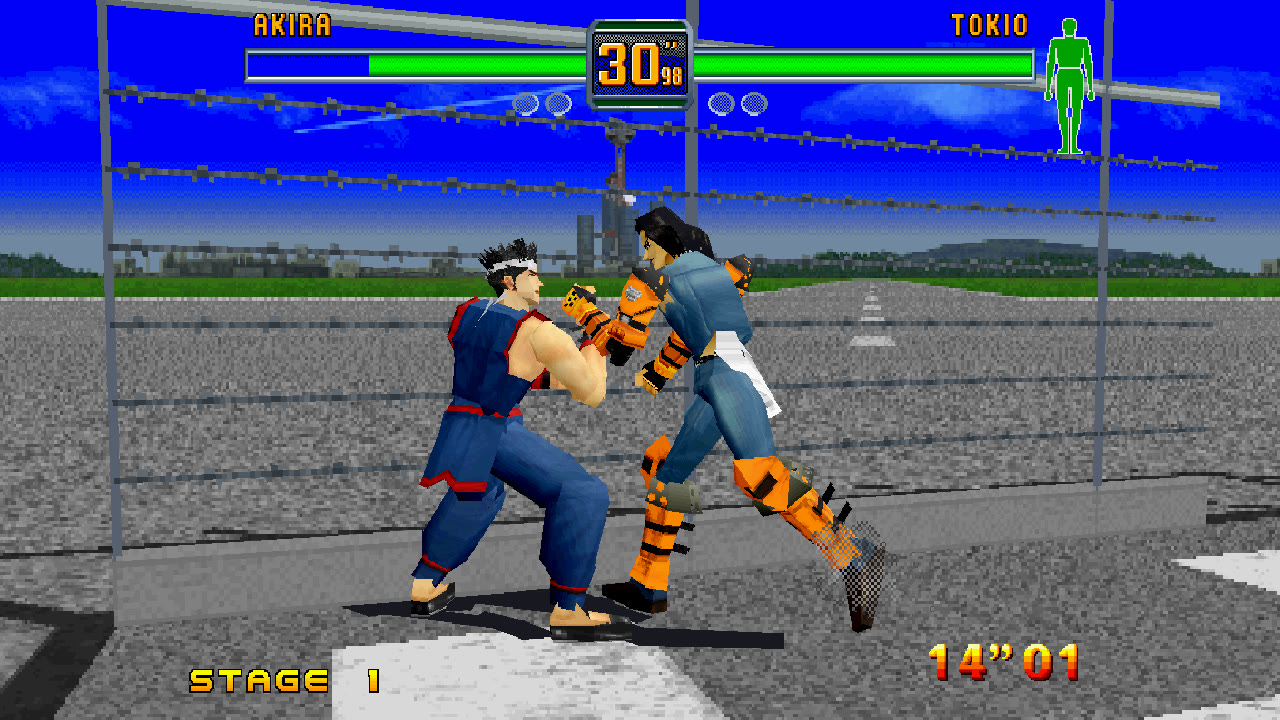
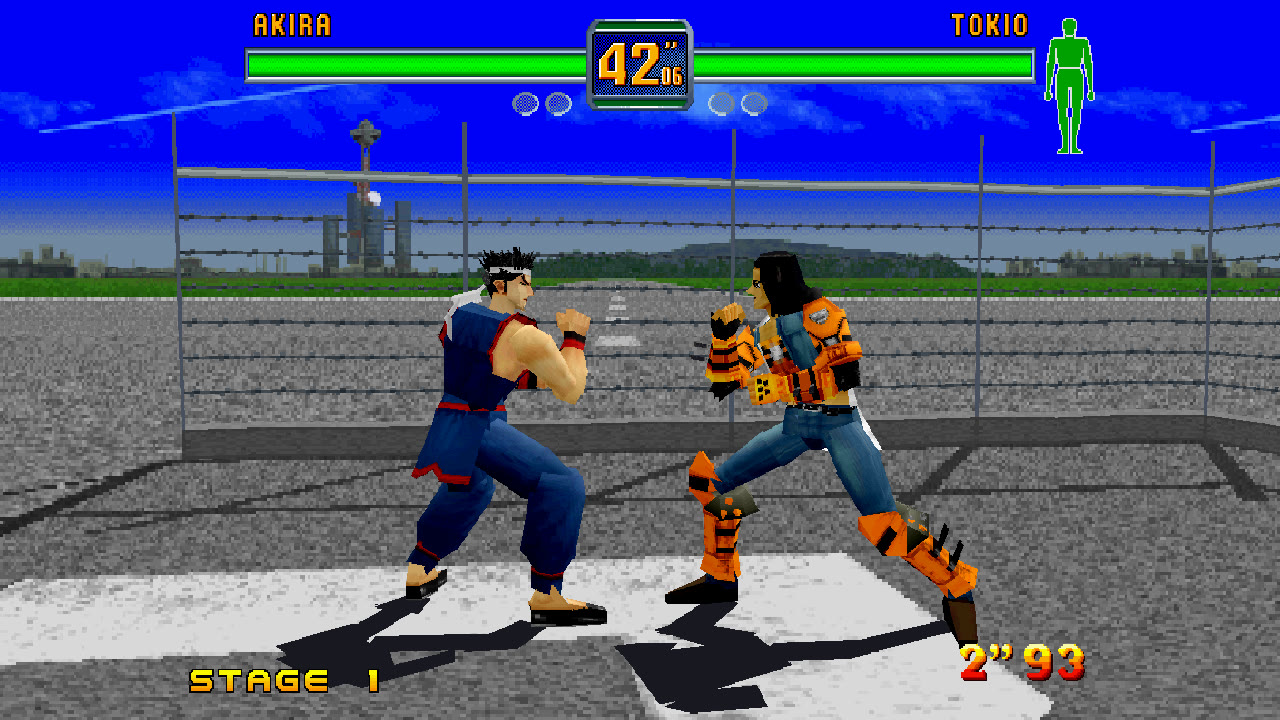
Sound effects in fights; widescreen: the stages' fences reach the picture's edges
Toolkit at satrecomp c5cb660. A fight's sound effects stopped after "Round 1,
Fight!", a hiss in their place, while the CD music went on: the game reads
its sound program and samples through the file library's Fread and waits
there with its interrupts running, and the toolkit's replacement read at
once. Fread is the game's own again (reading through the CD drive); loading
before a fight takes about two seconds longer. The new code it runs is
recorded: 100% translated again.

Widescreen: the four routines that list a stage's panels take one only
within a limit of the picture's middle; the limits are widened
(shared::WidenAm2PanelLimits). The gauges stay in the middle: the title's
text is on the same screen rows. The README's widescreen picture is taken
again with the fence reaching both edges.

make check (arcade movie 6,000 frames, no input 9,000) passes.

Claude-Session: https://claude.ai/code/session_0194hRTFNQ8ggjwo1nMtcsWZ

diff --git a/satrecomp/runtime/shared_lifts.cpp b/satrecomp/runtime/shared_lifts.cpp
@@ -2,10 +2,12 @@
 // Copyright (C) 2026 Tommy McLeroy. Part of satrecomp: https://github.com/tmcleroy/satrecomp
 // Routines several games carry byte for byte (shared_lifts.h). First written for Fighting Vipers.
 #include "shared_lifts.h"
+#include "game.h"
 #include "music.h"
 #include "state.h"
 
 #include <algorithm>
+#include <cmath>
 #include <cstdio>
 #include <cstdlib>
 #include <cstring>
@@ -147,43 +149,6 @@ bool GfsClose(Guest &g) {
     g.Return(300);
     return true;
 }
-
-// The standard file library's Fread. Games read the disc's directory with it at start-up, and movie players
-// read their movie through it a few sectors at a time as it plays.
-//
-// Fread(file, sectors, buffer, size): reads up to that many sectors from where the file's read position is,
-// and moves the position on. Returns the number of bytes read.
-// interface: r4 -> the library's open file (start sector at +0x10, sectors at +0x20, read position in
-// sectors at +0x48), r5 = sectors, r6 = buffer, r7 = its size in bytes
-bool GfsFread(Guest &g) {
-    const uint32_t file = g.R(4);
-    if (file == 0) {
-        return false;
-    }
-    const uint32_t first = g.Read32(file + 0x10), total = g.Read32(file + 0x20);
-    uint32_t position = g.Read32(file + 0x48);
-    if (position == 0xFFFFFFFF) {
-        position = 0; // (a file nothing has been read from yet)
-    }
-    if (g.Read32(file + 0x1C) != 2048 || position > total) {
-        return false;
-    }
-    const uint32_t count = std::min({g.R(5), total - position, g.R(7) / 2048});
-    std::vector<uint8_t> data(static_cast<size_t>(count) * 2048);
-    for (uint32_t i = 0; i < count; i++) {
-        if (!satrecomp::ReadDiscSector(first + position + i, data.data() + static_cast<size_t>(i) * 2048)) {
-            return false;
-        }
-    }
-    // (whole sectors, also of the file's last one, as the library gives them)
-    const size_t bytes = data.size();
-    g.CopyIn(g.R(6), data.data(), bytes);
-    g.Write32(file + 0x48, position + count);
-    g.R(0) = static_cast<uint32_t>(bytes);
-    g.Return(2000);
-    return true;
-}
-
 
 // --- CD music ---
 //
@@ -486,7 +451,6 @@ const Routine kGfsOpen = {"GFS Open", 0x40, 0xD6F3BEFA9FD2D85Cull, GfsOpen};
 const Routine kGfsStart = {"GFS Start", 0x40, 0x8F991EFB4E2B8472ull, GfsStart};
 const Routine kGfsPoll = {"GFS Poll", 0x40, 0x8F0DC6C95F511448ull, GfsPoll};
 const Routine kGfsClose = {"GFS Close", 0x40, 0x7B59151D7BEC30D8ull, GfsClose};
-const Routine kGfsFread = {"GFS Fread", 0x6E, 0x9D2028C1C665A09Bull, GfsFread};
 const Routine kCdPlay = {"CdPlay", 0x44, 0xCB5EB1EAEFB73570ull, CdPlay};
 const Routine kCdSeek = {"CdSeek", 0x26, 0x4797762B59FD886Full, CdSeek};
 const Routine kCdGetCurStat = {"GetCurStat", 0x44, 0x84988AAF02EEAA2Aull, CdGetCurStat};
@@ -522,6 +486,32 @@ void State(Archive &ar) {
     ar.Pod(g_smpc.requests);
     if (!ar.Saving()) {
         g_smpc.pending = false;
+    }
+}
+
+void WidenAm2PanelLimits(std::initializer_list<uint32_t> loads) {
+    constexpr uint16_t kLimit = 224, kHalfWidth = 176;
+    constexpr uint16_t kNegR1R2 = 0x621B;
+    const float wider = PictureAspect() / (4.0f / 3.0f) - 1.0f;
+    // In a wider picture: out by as much as the picture is wider, and by another half 4:3 picture, since a
+    // panel at the side is listed only when its far corners are inside too (Megamix's fences are wide; at
+    // 16:9 one at the right edge needed a limit of nearly 300, and limits up to 2000 showed nothing more)
+    const uint16_t limit = wider > 0.0f
+        ? static_cast<uint16_t>(kLimit + std::lround(wider * kHalfWidth) + kHalfWidth)
+        : kLimit;
+    for (const uint32_t at : loads) {
+        const uint16_t op = Ram16(at);
+        if ((op & 0xFF00) != 0x9100) { // mov.w @(disp,PC),r1
+            continue;
+        }
+        if (Ram16(at + 2) != kNegR1R2 && Ram16(at + 4) != kNegR1R2) {
+            continue;
+        }
+        const uint32_t word = at + 4 + (op & 0xFF) * 2;
+        const uint16_t now = Ram16(word);
+        if (now != limit && now >= kLimit) { // (the game's, or one set here)
+            SetRam16(word, limit);
+        }
     }
 }
 

diff --git a/satrecomp/runtime/shared_lifts.h b/satrecomp/runtime/shared_lifts.h
@@ -17,6 +17,8 @@
 
 #include "lift.h"
 
+#include <initializer_list>
+
 namespace satrecomp {
 class Archive;
 
@@ -30,8 +32,11 @@ struct Routine {
 };
 
 // The file system library (GFS): open a file by name, start a read into memory, ask how it is getting on,
-// close; and its Fread, which reads a number of sectors from a file's read position.
-extern const Routine kGfsOpen, kGfsStart, kGfsPoll, kGfsClose, kGfsFread;
+// close. (Not its Fread: a replacement that read at once was tried and taken out. The game waits in Fread
+// with its interrupts running while the drive reads, and Sega AM2's games load their sound program and
+// samples through it: done at once, their sound effects stopped after the first in a fight. The game's own
+// Fread reads through the CD drive, satrecomp/machine/cd.cpp.)
+extern const Routine kGfsOpen, kGfsStart, kGfsPoll, kGfsClose;
 // The CD library: play audio tracks, pause or stop, report the drive's state (runtime/music.h plays them)
 extern const Routine kCdPlay, kCdSeek, kCdGetCurStat;
 // The peripheral library's SMPC command routine: answers INTBACK (system status and both control pads)
@@ -39,6 +44,16 @@ extern const Routine kCdPlay, kCdSeek, kCdGetCurStat;
 extern const Routine kPerSendCommand;
 // Sega AM2's engine (Fighting Vipers, Fighters Megamix): load a whole file and wait; read both pads a frame
 extern const Routine kAm2LoadFile, kAm2ReadPads;
+
+// Sega AM2's engine in widescreen: the routines that list a stage's panels (the cages, fences and walls of
+// Fighting Vipers and Fighters Megamix, on each CPU) take a panel only if all four corners are less than 224
+// dots from the picture's middle, 48 past the 4:3 picture's sides, so in a wider picture the panels at the
+// sides were left out. Each routine loads the limit from a word next to its code (mov.w @(disp,PC),r1, then
+// neg r1,r2 straight after or in the delay slot of the branch after). `loads` are those mov.w instructions;
+// this sets each limit out by as much as the picture is wider and a margin more (at 4:3 it stays the game's). Called after
+// every frame the game ran, since code may be loaded later and a state loaded may have been saved with
+// another picture's limit. Code that isn't such a routine is left alone.
+void WidenAm2PanelLimits(std::initializer_list<uint32_t> loads);
 
 // Registers `routine` at `address` (name: as it is listed, if not the routine's own)
 void Register(const Routine &routine, uint32_t address, const char *name = nullptr);

diff --git a/games/fighters_megamix/src/game.cpp b/games/fighters_megamix/src/game.cpp
@@ -20,7 +20,6 @@ void RegisterShared() {
     Register(kGfsStart, 0x06048664);
     Register(kGfsPoll, 0x060489D8);
     Register(kGfsClose, 0x0604894C);
-    Register(kGfsFread, 0x06049270);
     Register(kCdPlay, 0x06047F50);
     Register(kCdSeek, 0x06048014);
     Register(kCdGetCurStat, 0x060479C8);
@@ -34,6 +33,13 @@ void RegisterShared() {
 
 void RegisterGame() {
     RegisterShared();
+    // Widescreen: the stages' panels (the cages, fences and walls) are listed by four of the engine's routines,
+    // each with its own copy of a limit on how far off the picture's middle a panel may be (the toolkit's
+    // shared::WidenAm2PanelLimits): two shaped as in Fighting Vipers (the limit loaded at 0x06020BC4 and
+    // 0x06020CD0) and two more (0x06021F76, 0x060220E6). (The gauges stay in the middle: Fighting Vipers' way of
+    // moving them out, a split of NBG2's rows, would split the title screen's text here too, which is on that
+    // screen in the same rows; it needs the game's "a fight is on", not found yet.)
+    TheGame().frame = [] { shared::WidenAm2PanelLimits({0x06020BC4, 0x06020CD0, 0x06021F76, 0x060220E6}); };
     TheGame().state = [](Archive &ar) { shared::State(ar); };
 }
 

diff --git a/games/fighters_megamix/PROGRESS.md b/games/fighters_megamix/PROGRESS.md
@@ -29,7 +29,7 @@ each Fighting Vipers lift hashes; the constant pools differ), and replaced by th
 | AM2 LoadFile | 0602DE3C | 06029B44 |
 | AM2 ReadPads | 0602F168 | 0602BA24 |
 | GFS Open / Start / Poll / Close | 060483BC / 06048664 / 060489D8 / 0604894C | 06044D78 / 06045020 / 06045394 / 06045308 |
-| GFS Fread | 06049270 | 06045C2C |
+| (GFS Fread: the game's own, see Sound below) | 06049270 | 06045C2C |
 | CdPlay / CdSeek / GetCurStat | 06047F50 / 06048014 / 060479C8 | 0604490C / 060449D0 / 06044384 |
 | PER SendCommand | 0605C458; the movie player's copy 060D4510 | 06058934 |
 
@@ -45,6 +45,22 @@ of the file being loaded 0x060948F0, its error byte 0x060948F4; the peripheral l
 0x060FFF80 (the same as Fighting Vipers').
 
 ## Game facts
+
+- **Sound in a fight**: before each fight the game reads its sound program and samples into sound RAM
+  (0x25A00000 16 KB, 0x25A04000 140 sectors, then each fighter's and the stage's at 0x25A4A000, 0x25A59800,
+  0x25A69000) through the file library's Fread, and waits there with its interrupts running while the
+  drive reads. The shared Fread replacement read at once (nothing ran meanwhile), and the fight's sound
+  effects stopped after "Round 1, Fight!", a hiss in their place (seen in the effects alone, with the CD
+  music input switched off); the CD music went on. Fread is now the game's own, reading through the CD drive
+  (2026-11-01): loading before a fight takes about two seconds longer.
+- **Widescreen**: four of the engine's routines list the stages' panels (cages, fences, walls), each taking a
+  panel only if its four corners are within a limit of the picture's middle (224 dots, 48 past the 4:3
+  sides); the limit is loaded at 0x06020BC4 and 0x06020CD0 (shaped as Fighting Vipers' two) and at
+  0x06021F76 and 0x060220E6. In Tokio's stage the fence is listed by the one at 0x06020CD0 (a limit of 60
+  there takes the whole fence away); at 16:9 a panel at the right edge needed a limit of nearly 300. The
+  fight's display is on NBG2 as in Fighting Vipers, but the title screen's text is on NBG2 in the same rows,
+  so Fighting Vipers' split of those rows would cut the title's copyright line apart: the gauges wait for a
+  "fight is on" flag (not found: the game's mode and fight state are not at Fighting Vipers' addresses).
 
 - **Master/slave command queue** (the same scheme as Fighting Vipers): the master writes commands at
   [GBR+72] (GBR 0x060FFC00) and signals the slave by writing 0x21000000; the slave's loop is at 0x0605F464

diff --git a/docs/PICTURE.md b/docs/PICTURE.md
@@ -11,8 +11,9 @@ needs a Vulkan driver.
 **16:9**, with more of the arena at the sides. It's a switch on the launcher's first page, and on the in-game menu's
 Display page while playing (from the next frame). It needs high resolution, and is off unless you switch it on.
 
-It works in the fights seen so far; the other screens have not been checked in it. The gauges and names are not
-moved out to the picture's edges yet, as Fighting Vipers' are ([ROADMAP.md](ROADMAP.md)).
+It works in the fights seen so far, the stages' cages and fences reaching the picture's edges; the other screens
+have not been checked in it. The gauges and names are not moved out to the picture's edges yet, as Fighting
+Vipers' are ([ROADMAP.md](ROADMAP.md)).
 
 ![A fight in 16:9 at the window's resolution](screenshots/widescreen.jpg)
 

diff --git a/CHANGELOG.md b/CHANGELOG.md
@@ -2,6 +2,12 @@
 
 ## Unreleased
 
+- Sound effects in fights: they stopped after "Round 1, Fight!", a hiss in their place, while the music went
+  on. The file library's Fread is the game's own again, reading through the CD drive (the toolkit's
+  replacement read at once, and the game loads its sound through it); loading before a fight takes about two
+  seconds longer.
+- Widescreen: the stages' cages and fences reach the picture's edges (they ended a little past the 4:3
+  picture's sides). The gauges stay in the middle for now.
 - README: screenshots (a fight in 16:9 and in 4:3, the character select, the launcher).
 - README: a short section per feature, with the picture and the launcher in docs/PICTURE.md and docs/LAUNCHER.md.
 
